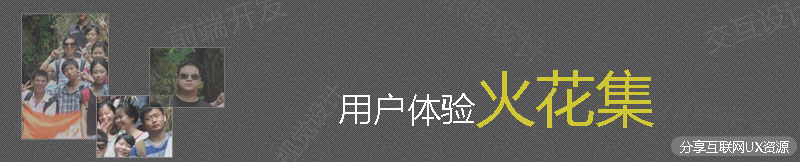
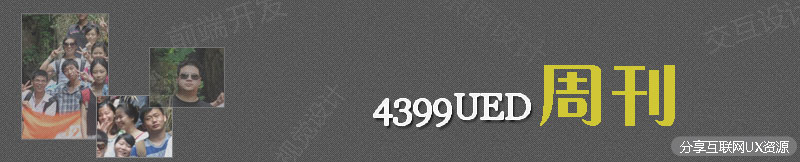
update uxweekly

Changed region(s): [[0.4062, 0.4012, 0.8438, 0.8025]]

diff --git a/js/weekly/20121121.js b/js/weekly/20121121.js
@@ -1,0 +1,62 @@
+/**
+ * Created with JetBrains PhpStorm.
+ * User: 情封
+ * Date: 12-10-12
+ * Time: 上午10:47
+ * project list
+ */
+
+var ux_content = {
+    "topic":"用户体验路上有你我的精彩",
+    "topic_one" :{
+        "topic_title" : "优秀设计师应当知道的20大UI设计原则",
+        "topic_img_url" : "../../content/20121121/6.png",
+        "topic_url":"http://www.leiphone.com/0806-danice-ui-design-principles.html",
+        "topic_summary":"[核心提示]世界级图形设计大师Paul Rand（保罗.兰德）曾经说过：“设计绝不是简单的排列组合与简单地再编辑，它应当充满着价值和意义，去说明道理，去删繁就简，去阐明演绎，去修饰美化，去赞美褒扬，使其有戏剧意味，让人们信服你所言……”，由此可见，设计绝非轻而易举之事，优秀的设计更是难上加难..."
+    },
+    "leftSide":
+	{
+           "topic_title" : "iPhone 5/iOS 6前端开发指南",
+           "topic_url" : "http://www.qianduan.net/iphone5ios6-front-end-development-guide.html",
+           "topic_summary" : "iPhone 5和iOS 6已经发布好几天了，相信很多童鞋都已经刷上了iOS 6。我们在之前就发表过《iOS 6中Safari对HTML5的支持》，但是除此之外，实际上市的iOS 6具体支持还有哪些新功能？让我们一起看下。。iPhone首先屏幕变长了，分辨率从iPhone 4s的640px*960变成了640*1136，长宽比变成了16：9。DPI依然是326。其它表现看起来是一样的。"
+    },
+	
+	
+    "rightSide":[
+            {
+                "topic_title":"人人都懂交互设计！",
+                "topic_img_url":"../../content/20121121/5.png",
+                "topic_summary" : "人人都懂交互设计！这听起来确实是个好事儿：在达成共识，彼此理解的基础上，工作才能更好地开展。",
+                "topic_url" : "http://uxc.360.cn/archives/349.html"
+            },
+            {
+                "topic_title":"交互设计师到底是需要做什么?",
+                "topic_img_url":"../../content/20121121/4.png",
+                "topic_summary" : "交互设计师到底是需要做什么？尽管很多谈及交互的书上都已经回答过了：发现用户需要，建立明确需求；提出设计方案；制作设计原型；用户测试和评估。",
+                "topic_url" : "http://uedc.163.com/4816.html"
+            }
+        ],
+
+    "topic_three":[
+        {
+            "topic_title":"前端工程师的价值体现在哪里？",
+            "topic_img_url":"../../content/20121121/1.png",
+            "topic_url" : "http://blog.jobbole.com/30091/"
+        },
+        {
+            "topic_title":" 腾讯网无障碍说明",
+            "topic_img_url":"../../content/20121121/2.png",
+            "topic_url" : "http://www.qq.com/demo/accessibility.htm"
+        },
+        {
+            "topic_title":"目的，目标，解决方案",
+            "topic_img_url":"../../content/20121121/3.png",
+            "topic_url" : "http://ucdchina.com/snap/12271"
+        }
+    ],
+    "editor" : ["情封","滋繁"]
+
+}
+
+
+

diff --git a/js/ux.js b/js/ux.js
@@ -20,7 +20,7 @@
         if( !isObject($(id)) ){
             return;
         }
-        var _html = '我来自头部';
+        var _html = '<a href="http://demo.4399ued.com/ued/ux/" title="返回首页">返回首页</a>';
         $(id).innerHTML = _html;
     }
 
@@ -29,18 +29,16 @@
             return;
         }
         var _html = '<div class="ux_footer">'+
-                    '<div class="xm_fe">'+
-                    '<img src="http://tp1.sinaimg.cn/2771882100/180/5631942496/0" width="71" height="71" alt="厦门前端联盟"/>厦门前端联盟</div>'+
-                    '<div class="ued">4399用户体验部门</div>'+
+           
+                    '<div><a  href="http://demo.4399ued.com/ued/ux/index.html"   class="ued"></a></div>'+
                     '<dl class="ux_about">'+
-                        '<dt>关于UX火花集</dt>'+
-                        '<dd>UX火花，是一份用以收集和分享UX资源、业界观点、创新与前瞻的邮件列表，欢迎有兴趣的同学共同参与组织与供稿。</dd>'+
-                        '<dd>地址：http://www.4399ued.com/ux/</dd>'+
+                        '<dt>关于4399UED周刊</dt>'+
+                        '<dd>4399UED周刊，是一份用以收集和分享UX资源、业界观点、创新与前瞻的分享列表，竭诚欢迎有兴趣的同学共同参与组织与供稿。</dd>'+
+                        '<dd>UED周刊小组成员:<a href="http://demo.4399ued.com/ued/ux/about.html" class="about">快～快点我</a></dd>'+
                     '</dl>'+
 
                     '</div>'+
-                    '<div class="ux_site">本站链接均来自于互联网，有兴趣参与的童鞋请联系 <span>@情封</span><span>@鬼懿</span>'+
-					'<scr'+'ipt type="text/javascript">var _bdhmProtocol = (("https:" == document.location.protocol) ? " https://" : " http://");document.write(unescape("%3Cscript src=\'" + _bdhmProtocol + "hm.baidu.com/h.js%3Fd19e0ade259c89f350a75fb8e02cf042\' type="text/javascript"%3E%3C/script%3E"));</script>'
+                    '<div class="ux_site">本站链接均来自于互联网，有兴趣参与的童鞋请联系 <a target="_self" href="mailto:zhengguobao@4399.com">@情封</span>'+
                     '</div>';
         $(id).innerHTML = _html;
     }

diff --git a/about.html b/about.html
@@ -1,0 +1,61 @@
+<!DOCTYPE html>
+<html>
+<head>
+    <meta charset="utf-8"/>
+    <title>UED周刊</title>
+    <link href="css/about.less" rel="stylesheet/less" type="text/less"/>
+    <script type="text/javascript" src="js/less-1.3.0.min.js"></script>
+	<base target="_blank"/>
+</head>
+<body>
+    <!--ux_wrapper-->
+    <div class="ux_wrapper">
+        <!--ux_head-->
+        <div class="ux_head" id="j-head"></div>
+        <!--/ux_head-->
+        <!--ux_member-->
+        <div class="ux_member">
+			<!--mod_about-->
+			<div class="mod_about">
+				<h2>关于4399UED周刊</h2>
+				<p>4399UED周刊是分享用户体验的综合性网站，分享主题包含前端开发，视觉设计、
+交互设计，用户研究、原画设计等。</p>
+			</div>
+			<!--/mod_about-->
+			<!--mod_member-->
+			<div class="mod_member">
+				<h2>4399UED周刊成员</h2>
+				<!--mod_mlist-->
+				<ul class="mod_mlist">
+					<li>
+						<img src="images/common/member/1.jpg" width="120" height="120" alt=""/>
+						<dl class="intro">
+							<dt>情封</dt>
+							<dd>周刊负责人</dd>
+						</dl>
+					</li>
+					<li>
+						<img src="images/common/member/2.png" width="120" height="120" alt=""/>
+						<dl class="intro">
+						  <dt>郑滋繁</dt>
+							<dd>交互设计编辑</dd>
+						</dl>
+					</li>
+				</ul>
+				<!--/mod_mlist-->
+			</div>
+			<!--/mod_member-->
+			<p style="font-size:18px;color:#f00;margin-top:20px;">诚邀：视觉设计师、原画设计师、前端攻城师编辑数名，有兴趣的童鞋请@情封</p>
+        </div>
+        <!--/ux_member-->
+        <!--ux_footer-->
+        <div id="j-footer"></div>
+    </div>
+    <!--ux_wrapper-->
+    <script src="js/ux.js"></script>
+    <script>
+       KS.Head('j-head');
+        KS.Foot('j-footer');
+    </script>
+</body>
+</html>

diff --git a/index.html b/index.html
@@ -2,7 +2,7 @@
 <html>
 <head>
     <meta charset="utf-8"/>
-    <title>UX火花</title>
+    <title>UED周刊</title>
     <link href="css/index.less" rel="stylesheet/less" type="text/less"/>
     <script type="text/javascript" src="js/less-1.3.0.min.js"></script>
 	<base target="_blank"/>
@@ -15,7 +15,7 @@
         <!--/ux_head-->
         <!--ux_main-->
         <div class="ux_main">
-            <h2>Content</h2>
+            <h2>Topic</h2>
             <!--ux_content-->
             <div class="ux_content">
                 <!--ks_textlist-->
@@ -29,7 +29,7 @@
             {{#each topic}}
             <li>
                 <span class="ks_r">{{time}}</span>
-                <a href="http://www.4399ued.com/ux/content/{{id}}/" title="{{title}}"><span>{{num}}</span>{{title}}</a>
+                <a href="http://demo.4399ued.com/ued/ux/content/{{id}}/" title="{{title}}"><span>{{num}}</span>{{title}}</a>
             </li>
             {{/each}}
         </script>

diff --git a/css/about.less b/css/about.less
@@ -1,0 +1,37 @@
+@charset "utf-8";
+/* CSS Document
+Use for: about
+Version: 2.0
+Date:	2012-10-09
+Author:	f2er
+*/
+@import "css/KS.css";
+@import "ux.less";
+
+/*about*/
+.ux_member{background:#fff;padding:50px;zoom:1;}
+.mod_about{
+	h2{ color:#333;font-size:16px;font-family:"Georgia";margin-bottom:15px;}
+	p{ line-height:24px;font-size:14px;text-indent:2em;}
+}
+
+.mod_member{ margin-top:5*@num;
+	h2{ color:#333;font-size:16px;font-family:"Georgia";margin-bottom:15px;}
+}
+
+.mod_mlist{ overflow:hidden;zoom:1;margin-right:-20px;
+	li{ float:left;width:120px;position:relative;height:120px;margin-right:24px;margin-bottom:20px;
+		&:hover{
+			dl{ display:block;}
+		}
+		dl{ position:absolute;left:0;top:0;background:rgba(0,0,0,0.5);color:#fff;width:100px;height:100px;padding:10px;display:none;
+			dt{ margin-bottom:20px;}
+			dd{ font-size:12px;}
+		}
+	}
+}
+
+
+
+
+

diff --git a/content/20121121/index.html b/content/20121121/index.html
@@ -60,13 +60,13 @@
                 <!--/ks_imglist-->
             </div>
             <!--/mod_three-->
-            <div class="mod_editor">编辑：{{#each editor}}{{this}}{{/each}}</div>
+            <div class="mod_editor">编辑：{{#each editor}}<span>{{this}}</span>{{/each}}</div>
         </script>
         <div id="j-footer"></div>
     </div>
     <!--ux_wrapper-->
     <script src="../../js/handlebars-1.0.rc.1.js"></script>
-    <script type="text/javascript" src="../../js/20121118.js"></script>
+    <script type="text/javascript" src="../../js/weekly/20121121.js"></script>
     <script src="../../js/ux.js"></script>
     <script>
         KS.Head('j-head');

diff --git a/css/ux.less b/css/ux.less
@@ -26,12 +26,23 @@ html,body{ background: #ededed;}
   .xm_fe{ float:right;width:90px;text-align:center;color:#fff;font-size:12px;
     img{ display: block;margin:0 auto 5px;}
   }
+ 
   .ued{ float:left;background: url("@{imgurl}ued.png") no-repeat;width:98px;height:58px;margin:@num 0 0 -110px;display:inline;text-indent:-1024em;}
 }
 
 .ux_site{ background: #e09348;height:24px;line-height: 24px;color:#333;text-align:center;font-size:12px;
-  span{ color:#fff;margin-right:@num/2;}
+  a{ color:#fff;margin-right:@num/2;
+	&:hover{ color:#d7c53d;}
+  }
 }
+.ux_about{
+	a{ color:#fff;
+		&:hover{ color:#d7c53d}
+		&.about{ color:#d7c53d;}
+	}
+}
+
+
 
 
 

diff --git a/js/uxlist.js b/js/uxlist.js
@@ -12,16 +12,10 @@
 var uxData ={
       topic :[
           {
-              "id" : 20121118,
+              "id" : 20121121,
               "num" : "第一期",
-              "title" : "厦门前端第四次交流会分享",
-              "time":"2012/11/19"
-          },
-          {
-              "id" : 20121210,
-              "num" : "第二期",
-              "title" : "第四次交流会分享",
-              "time":"2012/11/20"
+              "title" : "用户体验路上有你我的精彩",
+              "time":"2012/11/21"
           }
       ]
 }

diff --git a/css/content.less b/css/content.less
@@ -72,5 +72,9 @@ Author:	f2er
 
 }
 
+.mod_editor{
+	span{ margin-right:10px;}
+}
+
 
 
